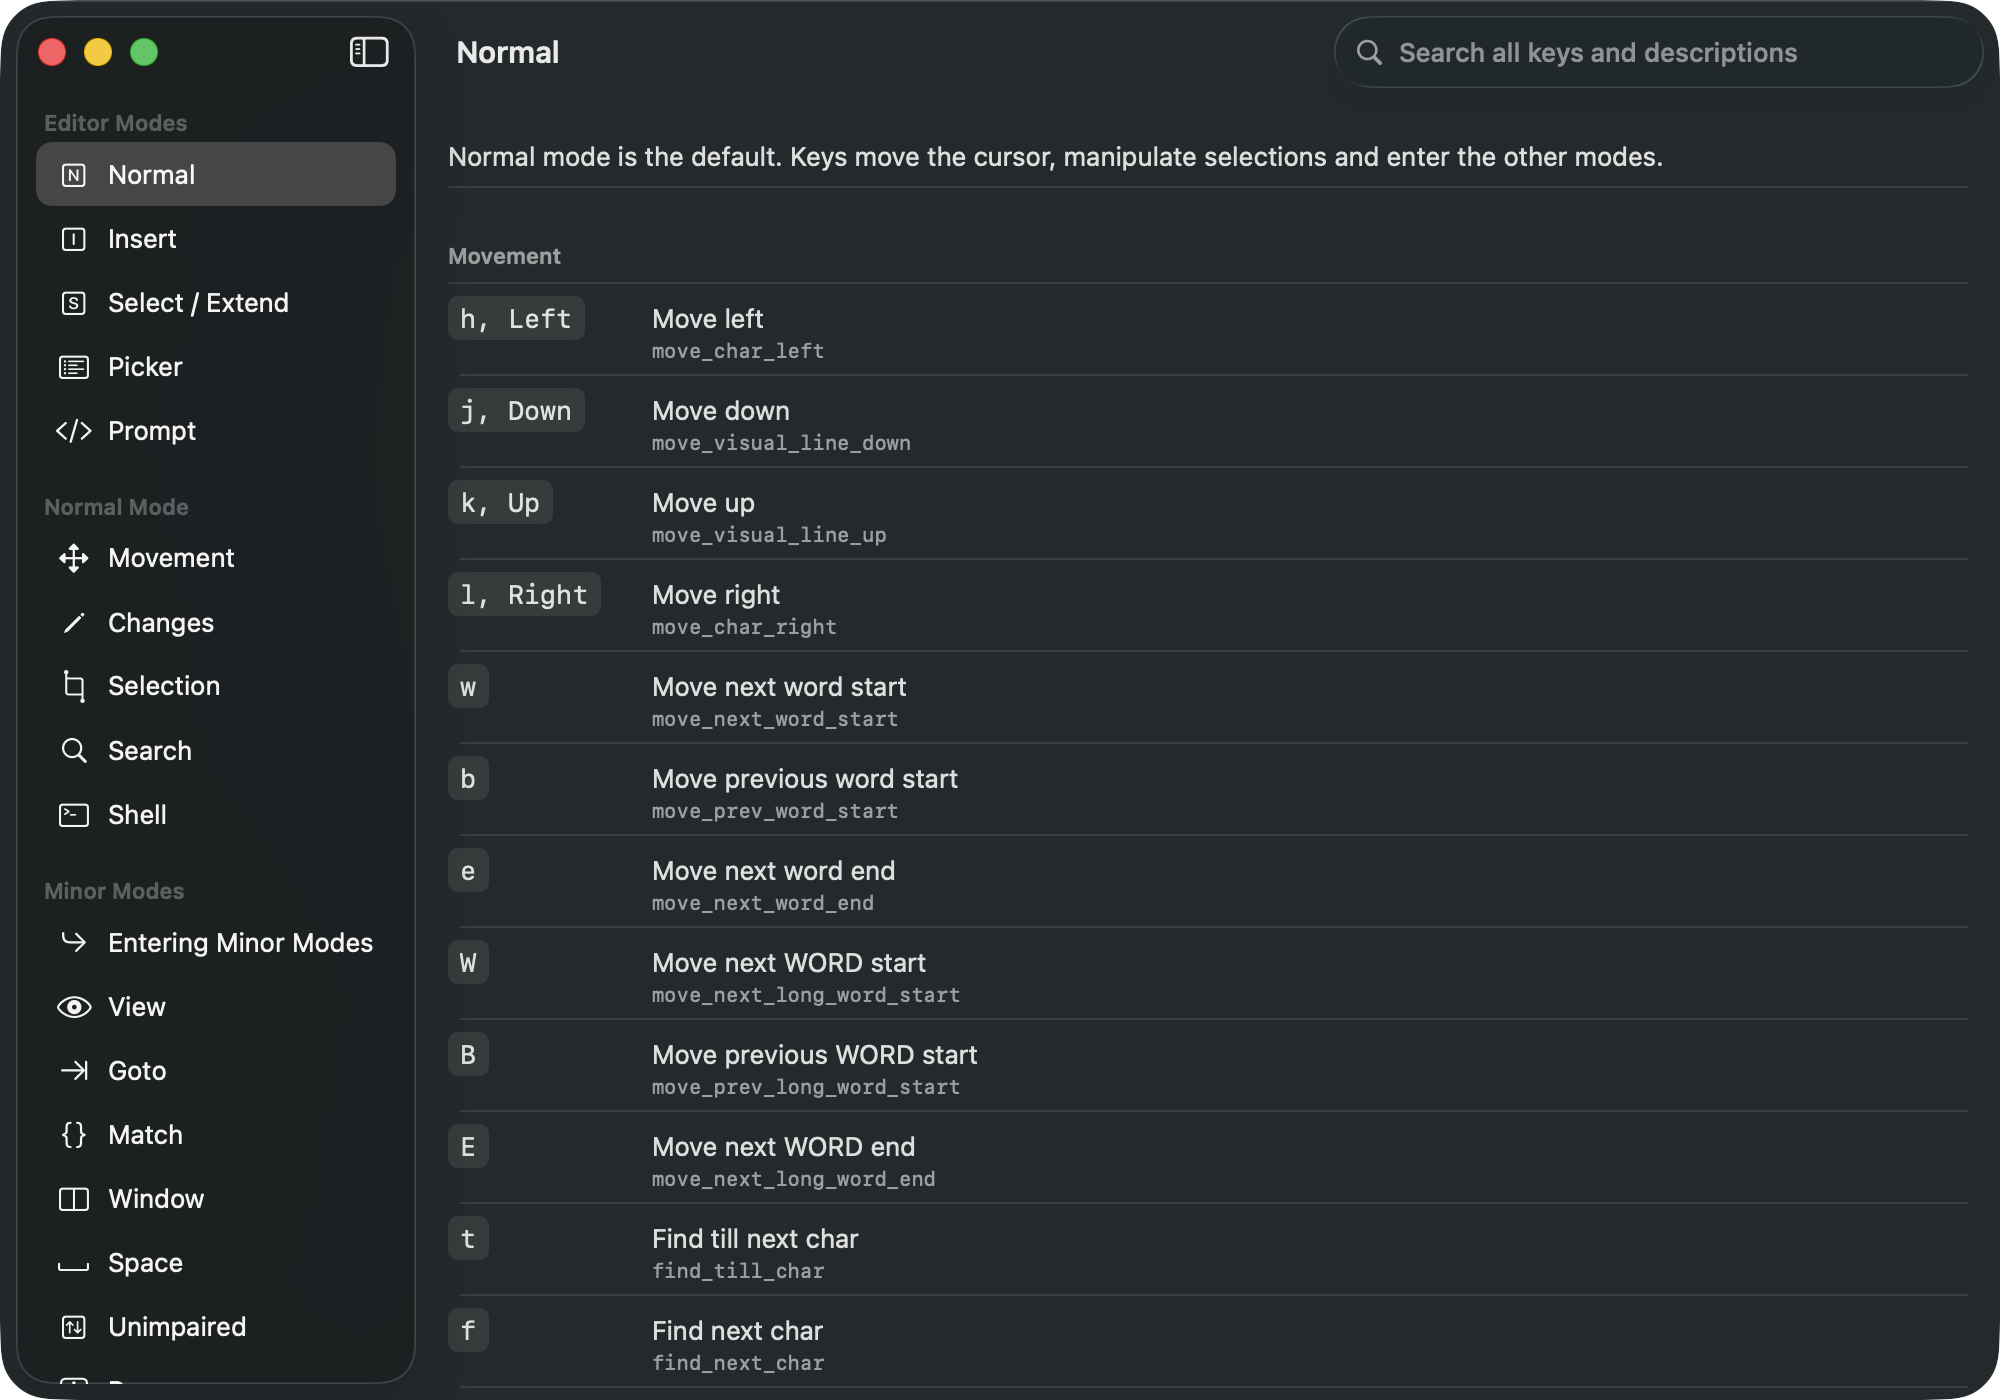
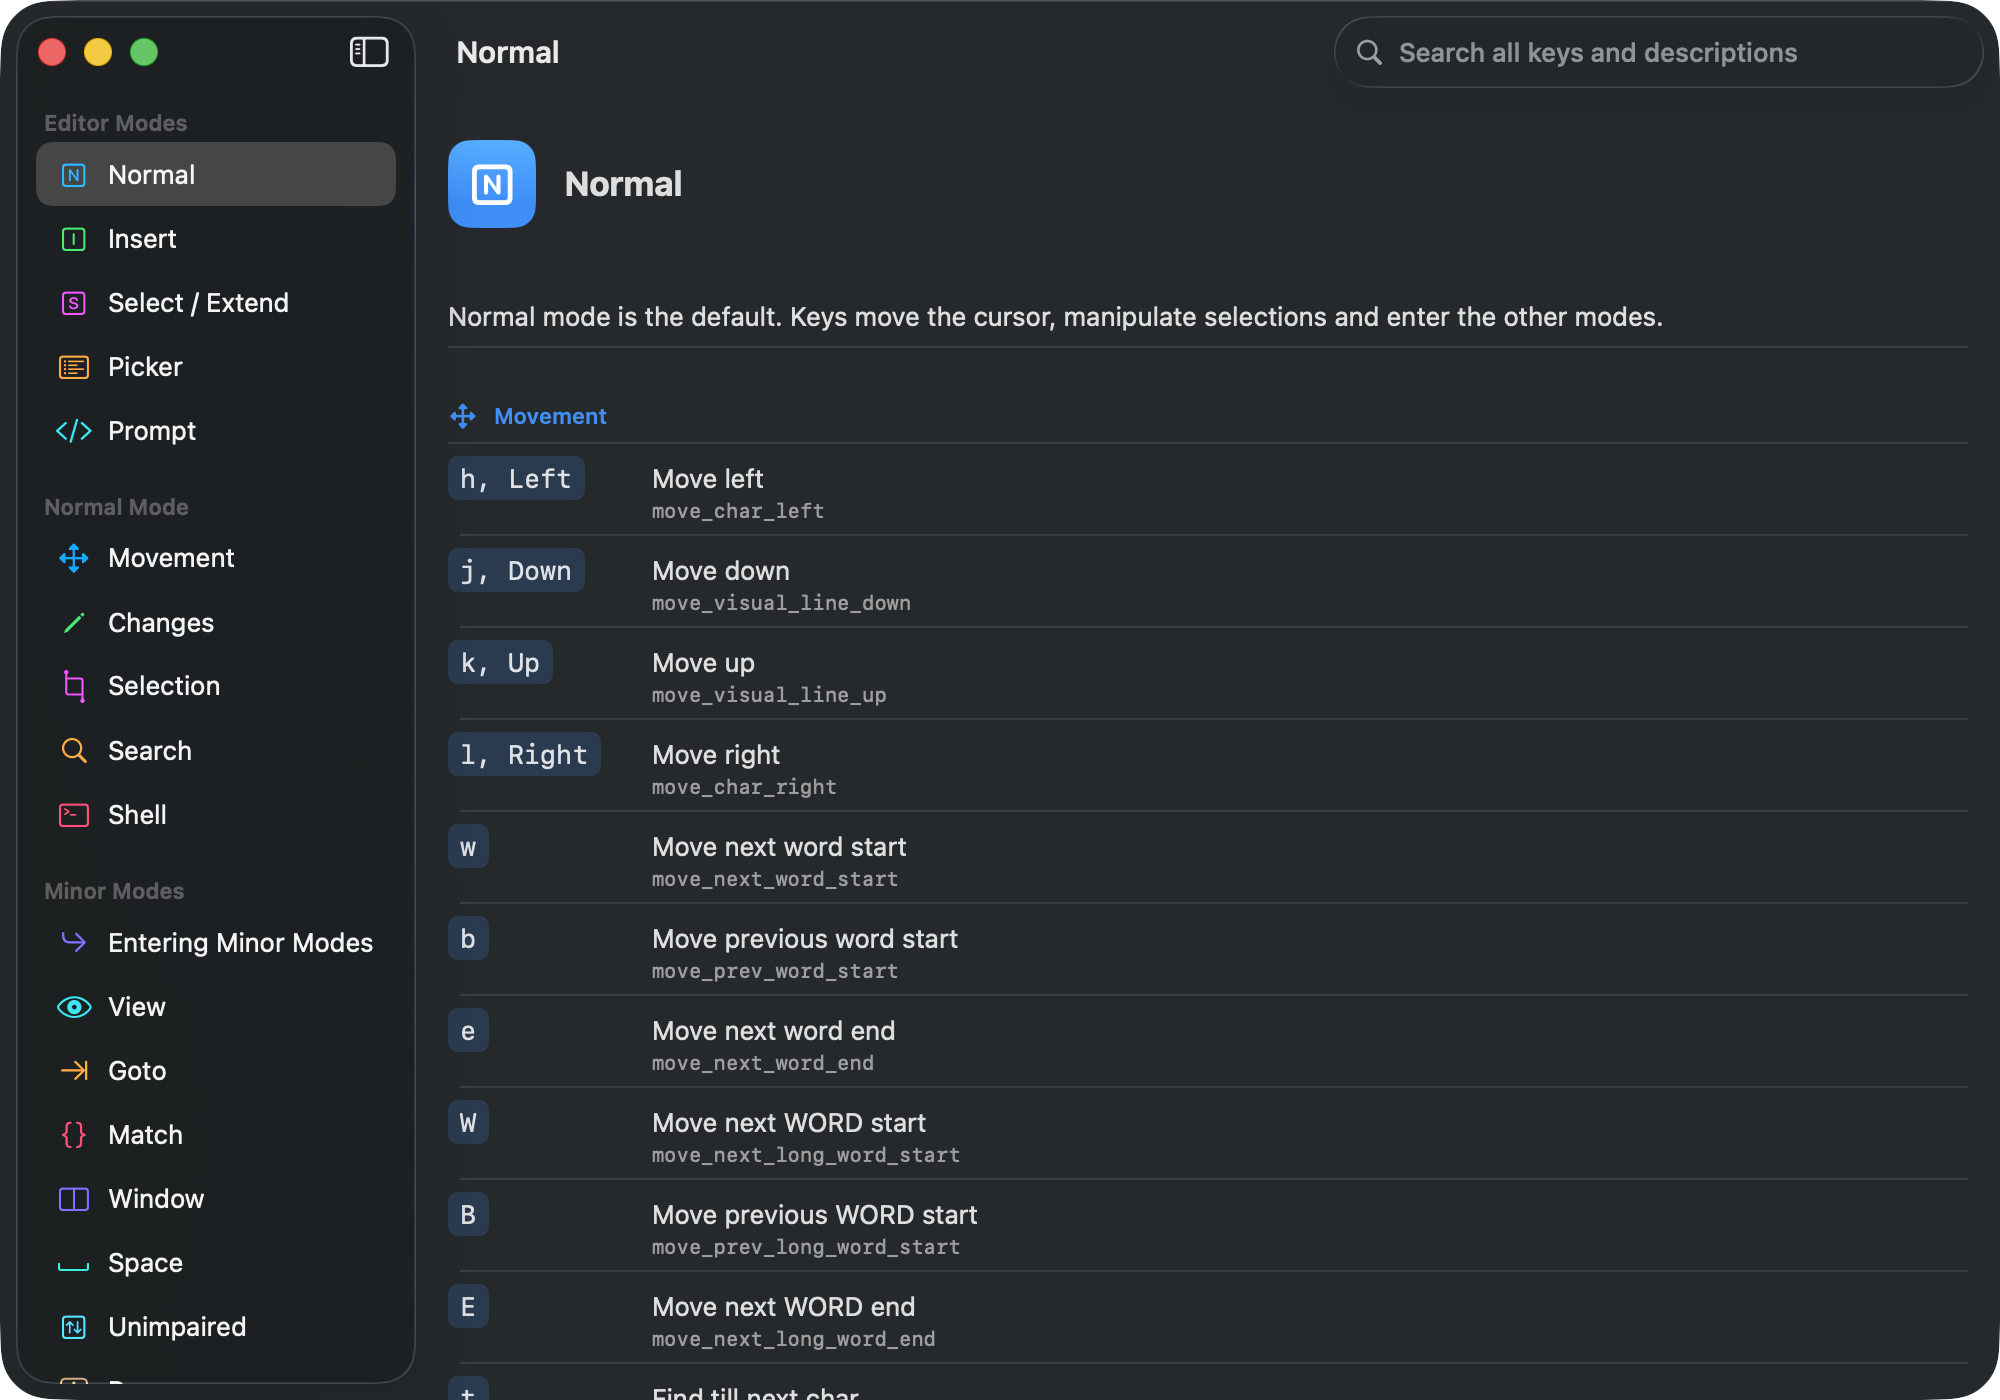
feat(ui): color-code every mode and surface the entry combo
The guide was legible but flat — one gray hue across the whole reference.
This gives structure a color:

- Each destination carries a tint, and related topics share a hue on
  purpose: the normal-mode categories keep the same color whether viewed
  on their own or as sections under Normal, so color reinforces the
  hierarchy instead of just decorating it.
- Sidebar icons, detail section headers (now icon + label), and the key
  "caps" all adopt that hue, so a screen reads as one color at a glance.
- Every detail screen gets a header banner: a tinted gradient icon chip,
  the title, and — for modes you reach by a keystroke — an "Enter with"
  keycap (goto=g, match=m, window=Ctrl-w, space=Space, view=z,
  select=v, unimpaired=[ ], commands=:). That entry combo was previously
  only buried in prose.
- Extracts a reusable KeyCap view so the keycap styling is defined once
  and shared by the row list and the header.

Refreshes docs/screenshot.png to the new look. Both platforms build and
all 41 unit tests pass; the content model is untouched.

Claude-Session: https://claude.ai/code/session_015V1crfsUyRTwoG9rymQZAD

diff --git a/hxguide/ContentView.swift b/hxguide/ContentView.swift
@@ -104,6 +104,42 @@ enum GuideDestination: String, CaseIterable, Identifiable, Hashable {
         }
     }
 
+    /// The accent hue for this screen. Related topics share a hue on purpose — the
+    /// normal-mode categories keep the same color whether viewed on their own or as
+    /// sections under Normal — so color reinforces structure instead of just decorating.
+    var tint: Color {
+        switch self {
+        case .normal, .movement, .commands: return .blue
+        case .insert, .changes: return .green
+        case .selectOrExtend, .selectionManipulation: return .purple
+        case .picker, .search, .goto: return .orange
+        case .prompt, .view: return .teal
+        case .shell, .match, .credits: return .pink
+        case .minorModeEntry, .window, .staticCommands: return .indigo
+        case .space: return .mint
+        case .unimpaired: return .cyan
+        case .popup: return .brown
+        case .configuration: return .gray
+        }
+    }
+
+    /// The keystroke that enters this mode from Normal mode, shown as an "Enter with"
+    /// badge in the detail header. `nil` where there's no single entry key (Normal is
+    /// the default; Insert has many; pickers/prompts/popups are entered contextually).
+    var entryKey: String? {
+        switch self {
+        case .selectOrExtend: return "v"
+        case .goto: return "g"
+        case .match: return "m"
+        case .window: return "Ctrl-w"
+        case .space: return "Space"
+        case .view: return "z"
+        case .unimpaired: return "[ ]"
+        case .commands: return ":"
+        default: return nil
+        }
+    }
+
     /// Explanatory prose shown above the key list, where the mode needs it.
     var prose: String? {
         switch self {
@@ -203,6 +239,20 @@ enum GuideDestination: String, CaseIterable, Identifiable, Hashable {
     static let normalCategories: [GuideDestination] = [.movement, .changes, .selectionManipulation, .search, .shell]
     static let minorModes: [GuideDestination] = [.minorModeEntry, .view, .goto, .match, .window, .space, .unimpaired, .popup]
     static let reference: [GuideDestination] = [.commands, .staticCommands, .configuration, .credits]
+
+    /// The symbol and tint for a detail-pane section header. Section titles usually
+    /// match a destination's title (so a "Movement" section borrows the Movement
+    /// icon and hue); the few that don't are mapped explicitly.
+    static func accent(forSection title: String) -> (symbol: String, tint: Color) {
+        let destination: GuideDestination?
+        switch title {
+        case "Minor Modes": destination = .minorModeEntry
+        case "Completion Menu", "Signature-help Popup": destination = .popup
+        case "Configuration File Locations": destination = .configuration
+        default: destination = allCases.first { $0.title == title }
+        }
+        return (destination?.symbol ?? "circle.fill", destination?.tint ?? .secondary)
+    }
 }
 
 // MARK: - Global search
@@ -254,22 +304,35 @@ struct GuideSectionContent: Identifiable {
 
 // MARK: - Rows
 
+/// A keystroke rendered as a monospaced "keycap" on a subtle rounded background,
+/// tinted to its section's hue. Shared by the row list and the detail header so the
+/// key styling is defined once.
+struct KeyCap: View {
+    let text: String
+    var tint: Color = .secondary
+
+    var body: some View {
+        Text(text)
+            .font(.system(.body, design: .monospaced))
+            .foregroundColor(.primary)
+            .padding(.horizontal, 6)
+            .padding(.vertical, 3)
+            .background(
+                RoundedRectangle(cornerRadius: 5, style: .continuous)
+                    .fill(tint.opacity(0.18))
+            )
+    }
+}
+
 /// One keystroke and what it does. The key is monospaced on a subtle rounded
 /// background so the key column stays scannable — the whole point of a shortcut reference.
 struct GuideRow: View {
     let entry: GuideEntry
+    var tint: Color = .secondary
 
     var body: some View {
         HStack(alignment: .firstTextBaseline, spacing: 12) {
-            Text(entry.key)
-                .font(.system(.body, design: .monospaced))
-                .foregroundColor(.primary)
-                .padding(.horizontal, 6)
-                .padding(.vertical, 3)
-                .background(
-                    RoundedRectangle(cornerRadius: 5, style: .continuous)
-                        .fill(Color.secondary.opacity(0.15))
-                )
+            KeyCap(text: entry.key, tint: tint)
                 .frame(minWidth: 90, alignment: .leading)
                 .accessibilityLabel(Text("Key \(entry.key)"))
 
@@ -331,6 +394,8 @@ struct GuideDetailView: View {
 
     var body: some View {
         List {
+            headerBanner
+
             if let prose = destination.prose {
                 Section {
                     Text(prose)
@@ -354,10 +419,14 @@ struct GuideDetailView: View {
                 }
 
                 ForEach(visibleSections) { section in
-                    Section(section.title) {
+                    let accent = GuideDestination.accent(forSection: section.title)
+                    Section {
                         ForEach(section.entries) { entry in
-                            GuideRow(entry: entry)
+                            GuideRow(entry: entry, tint: accent.tint)
                         }
+                    } header: {
+                        Label(section.title, systemImage: accent.symbol)
+                            .foregroundStyle(accent.tint)
                     }
                 }
             }
@@ -368,13 +437,52 @@ struct GuideDetailView: View {
         #endif
     }
 
+    /// A tinted icon chip, the screen's title, and — for modes reachable by a
+    /// keystroke — an "Enter with" keycap, so the entry combo reads at a glance.
+    private var headerBanner: some View {
+        HStack(spacing: 14) {
+            Image(systemName: destination.symbol)
+                .font(.system(size: 22, weight: .semibold))
+                .foregroundStyle(.white)
+                .frame(width: 44, height: 44)
+                .background(
+                    RoundedRectangle(cornerRadius: 11, style: .continuous)
+                        .fill(destination.tint.gradient)
+                )
+                .accessibilityHidden(true)
+
+            VStack(alignment: .leading, spacing: 3) {
+                Text(destination.title)
+                    .font(.title2.bold())
+                if let entryKey = destination.entryKey {
+                    HStack(spacing: 6) {
+                        Text("Enter with")
+                            .font(.caption)
+                            .foregroundStyle(.secondary)
+                        KeyCap(text: entryKey, tint: destination.tint)
+                            .accessibilityLabel(Text("Enter with key \(entryKey)"))
+                    }
+                }
+            }
+
+            Spacer(minLength: 0)
+        }
+        .padding(.vertical, 4)
+        .listRowBackground(Color.clear)
+        .listRowSeparator(.hidden)
+    }
+
     private var configurationSection: some View {
-        Section("Configuration File Locations") {
+        Section {
             ForEach(Helix.ConfigFileLocations.allCases, id: \.self) { location in
                 GuideRow(entry: GuideEntry(id: "na_config_\(location.rawValue)",
                                            key: location.description(),
-                                           detail: location.displayName))
+                                           detail: location.displayName),
+                         tint: GuideDestination.configuration.tint)
             }
+        } header: {
+            Label("Configuration File Locations", systemImage: GuideDestination.configuration.symbol)
+                .foregroundStyle(GuideDestination.configuration.tint)
         }
     }
 
@@ -414,15 +522,18 @@ struct GlobalSearchResultsView: View {
             }
 
             ForEach(results) { result in
-                Section(result.destination.title) {
+                Section {
                     ForEach(result.entries) { entry in
                         Button {
                             onSelect(result.destination)
                         } label: {
-                            GuideRow(entry: entry)
+                            GuideRow(entry: entry, tint: result.destination.tint)
                         }
                         .buttonStyle(.plain)
                     }
+                } header: {
+                    Label(result.destination.title, systemImage: result.destination.symbol)
+                        .foregroundStyle(result.destination.tint)
                 }
             }
         }
@@ -513,8 +624,13 @@ struct ContentView: View {
     private func sidebarSection(_ title: String, _ destinations: [GuideDestination]) -> some View {
         Section(title) {
             ForEach(destinations) { destination in
-                Label(destination.title, systemImage: destination.symbol)
-                    .tag(destination)
+                Label {
+                    Text(destination.title)
+                } icon: {
+                    Image(systemName: destination.symbol)
+                        .foregroundStyle(destination.tint)
+                }
+                .tag(destination)
             }
         }
     }